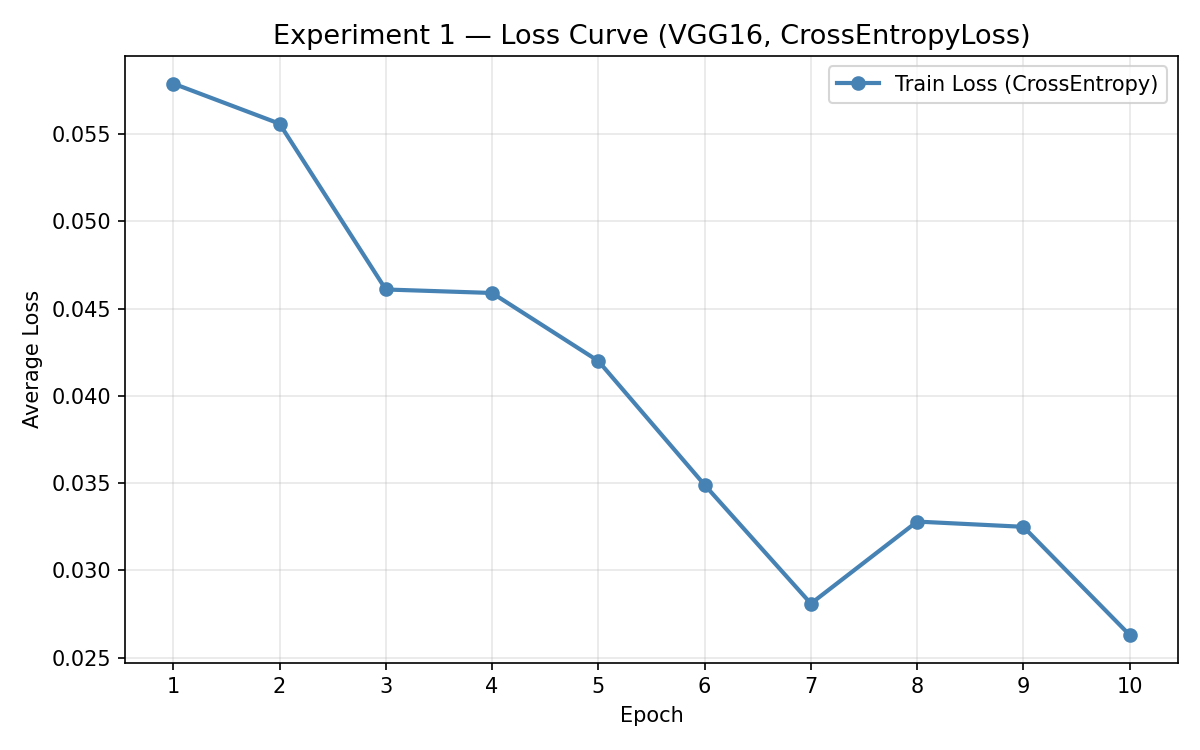
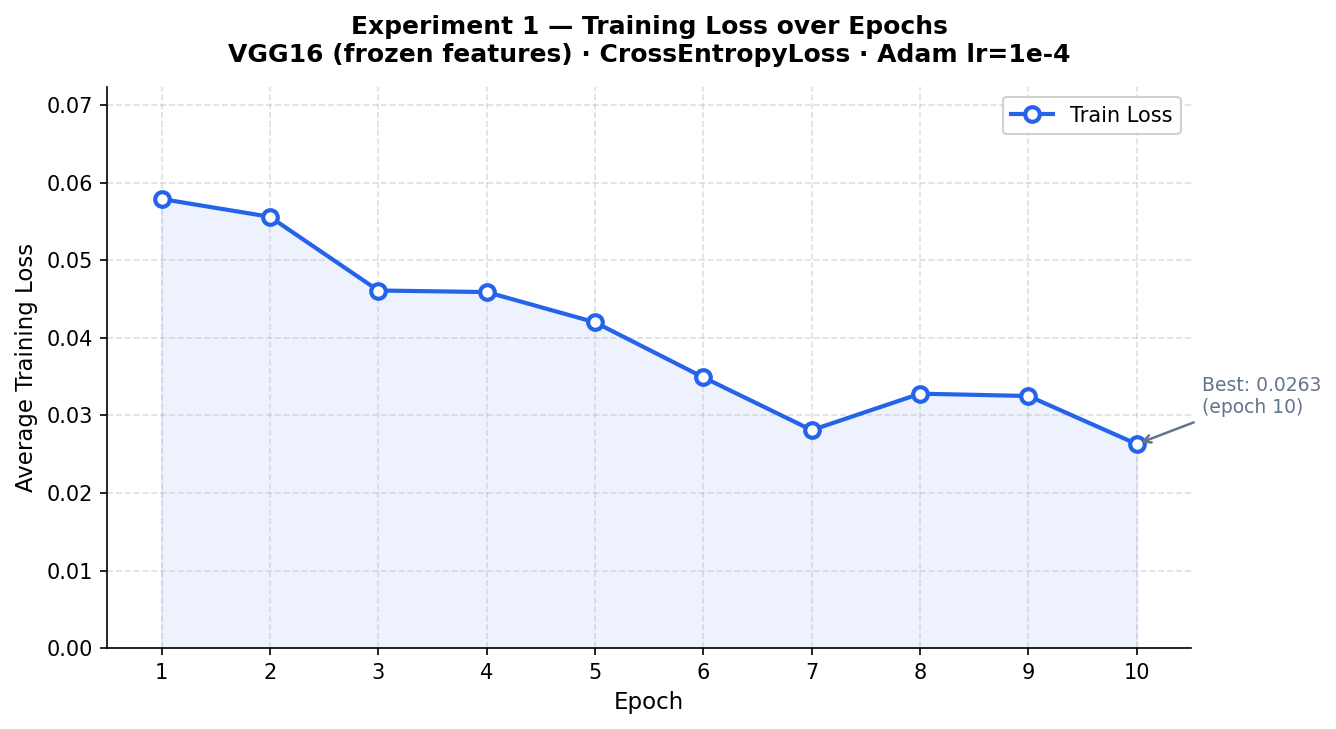
Cleaned model.py, upgraded plot, updated README param table

diff --git a/src/model.py b/src/model.py
@@ -2,8 +2,18 @@ import torch
 import torch.nn as nn
 import torchvision.models as models
 
+
+""" 
+Building a VGG16 based classifier for fruit recognition.
+-Loads VGG16 pretrained
+- Freeze the entire freature extractor(conv layers) 
+- Replace only the final fully_connected layer with a new linear
+
+"""
+
 def build_model(num_classes=15):
     # Load pretrained VGG16
+    # weights=VGG16_Weights.DEFAULT fetches the best available ImageNet weights
     model = models.vgg16(weights=models.VGG16_Weights.DEFAULT)
 
     # Freeze all feature layers
@@ -11,31 +21,30 @@ def build_model(num_classes=15):
         param.requires_grad = False
 
     # Replace final classifier layer
+    # original was 1000 ImageNet classes but we took only 15 
     model.classifier[-1] = nn.Linear(4096, num_classes)
 
     return model
 
+def count_parameters(model):
+    """
+    return a dict with total trainable and frozen param counts.
+    """
+    total = sum(p.numel() for p in model.parameters())
+    trainable = sum(p.numel() for p in model.parameters() if p.requires_grad)
+    frozen = total - trainable
+    return {"total": total,"trainable": trainable, "frozen": frozen}
+
 if __name__ == "__main__":
     model = build_model()
+    counts = count_parameters(model)
 
-    # Count parameters
-    total_params = sum(p.numel() for p in model.parameters())
-    frozen_params = sum(
-        p.numel() for p in model.parameters()
-        if not p.requires_grad
-    )
-    trainable_params = sum(
-        p.numel() for p in model.parameters()
-        if p.requires_grad
-    )
+    print(f"Total params: {counts['total']:,}")
+    print(f"Frozen params: {counts['frozen']:,}")
+    print(f"Trainable params: {counts['trainable']:,}")
 
-    print(f"Total params:     {total_params:,}")
-    print(f"Frozen params:    {frozen_params:,}")
-    print(f"Trainable params: {trainable_params:,}")
-
-    # Test with dummy input
-    dummy = torch.randn(1, 3, 224, 224)
+    #forward pass on a dummy image
+    dummy = torch.randn(1,3,224,224)
     output = model(dummy)
-    print(f"Output shape: {output.shape}")
-    assert output.shape == (1, 15), "Shape mismatch!"
-    print("All checks passed.")
+    assert output.shape == (1,15), f"Expected (1,15), got {output.shape}"
+    print(f"Output shape:  {output.shape}")

diff --git a/src/plot_loss.py b/src/plot_loss.py
@@ -1,0 +1,60 @@
+import matplotlib.pyplot as plt
+import matplotlib.ticker as ticker
+import numpy as np
+import os
+
+exp1_train_losses = [0.0579,0.0556, 0.0461,0.0459,0.0420,0.0349,0.0281,0.0328,0.0325,0.0263]
+
+if not exp1_train_losses:
+    print("No losses yte paste your exp1_train_losses list at the top of this file")
+    exit()
+
+epochs = list(range(1, len(exp1_train_losses) + 1))
+best_epoch = int(np.argmin(exp1_train_losses)) +1
+best_loss = min(exp1_train_losses)
+
+#plot
+fig, ax = plt.subplots(figsize =(9,5))
+
+ax.plot(
+    epochs, exp1_train_losses,
+    marker="o", linewidth=2, color="#2563EB",
+    markerfacecolor="white", markeredgewidth=2, markersize=7,
+    label="Train Loss" 
+)
+
+#shaded area under curve
+ax.fill_between(epochs, exp1_train_losses, alpha=0.08, color="#2563EB")
+ 
+# Annotate best (lowest) loss point
+ax.annotate(
+    f"Best: {best_loss:.4f}\n(epoch {best_epoch})",
+    xy=(best_epoch, best_loss),
+    xytext=(best_epoch + 0.6, best_loss + 0.004),
+    arrowprops=dict(arrowstyle="->", color="#64748B", lw=1.2),
+    fontsize=9, color="#64748B"
+)
+
+# lables and styling
+ax.set_title(
+    "Experiment 1 — Training Loss over Epochs\n"
+    "VGG16 (frozen features) · CrossEntropyLoss · Adam lr=1e-4",
+    fontsize=12, fontweight="bold", pad=12
+)
+ax.set_xlabel("Epoch", fontsize=11)
+ax.set_ylabel("Average Training Loss", fontsize=11)
+ax.xaxis.set_major_locator(ticker.MultipleLocator(1))
+ax.set_xlim(0.5, len(epochs) + 0.5)
+ax.set_ylim(0, max(exp1_train_losses) * 1.25)
+ax.grid(True, linestyle="--", alpha=0.4)
+ax.legend(fontsize=10, framealpha=0.9)
+ax.spines["top"].set_visible(False)
+ax.spines["right"].set_visible(False)
+ 
+plt.tight_layout()
+
+#save
+os.makedirs("results/graphs", exist_ok=True)
+out = "results/graphs/exp1_loss_curve.png"
+plt.savefig(out, dpi=150, bbox_inches="tight")
+print(f"Saved → {out}")

diff --git a/README.md b/README.md
@@ -25,7 +25,7 @@ Input (224×224×3)
 │  Block 5:  Conv(512) → Conv(512) →     │
 │            Conv(512) → Pool            │
 └───────────────────┬────────────────────┘
-                    │  7×7×512 → flatten
+                    │  7×7×512 → flatten → 25088
 ┌───────────────────▼────────────────────┐
 │  CLASSIFIER  (trainable)               │
 │                                        │
@@ -45,7 +45,7 @@ This works because early conv layers learn universal features (edges, textures, 
 
 ### Parameter Table
 
-| Component     | Parameters      | Trainable  |
+| Layer         | Parameters      | Trainable  |
 |---------------|-----------------|------------|
 | features      | 14,714,688      | frozen     |
 | classifier[0] | 102,764,544     | yes        |
@@ -53,9 +53,15 @@ This works because early conv layers learn universal features (edges, textures, 
 | classifier[6] | 61,455          | yes (new)  |
 | **Total**     | **134,321,999** | —          |
 | **Trainable** | **119,607,311** | yes        |
+| **Frozen**    | **14,714,688**  | No         |
 
-`classifier[6]` is the replaced head: `nn.Linear(4096, 15)` — the only layer that did not exist in the original VGG16.
+`classifier[6]` is the replaced head: `nn.Linear(4096, 15)`. It is the only layer that did not exist in the original VGG16.
 
+Verify at any time:
+```bash
+python -m src.model
+```
+ 
 ### Input Preprocessing
 
 All images are resized to 224×224 and normalised using ImageNet statistics:
@@ -79,26 +85,44 @@ Training augmentations: random horizontal flip, colour jitter (brightness, contr
 
 ## Experiments
 
-| Exp | Loss Function        | Epochs | Best Val Acc |
-|-----|----------------------|--------|--------------|
-| 1   | CrossEntropyLoss     | 10     | TBD          |
-| 2   | FocalLoss (a=1, g=2) | 10     | TBD          |
+| Exp | Loss Function        | Epochs | Optimizer     | Best Val Acc |
+|-----|----------------------|--------|---------------|--------------|
+| 1   | CrossEntropyLoss     | 10     | Adam lr=1e-4  | TBD          |
+| 2   | FocalLoss (α=1, γ=2) | 10     | Adam lr=1e-4  | TBD          |
+ 
+Both experiments use StepLR scheduler (step_size=5, gamma=0.1) and early stopping (patience=3).
+ 
+### Exp 1 — Training Loss Curve
+ 
+![Exp 1 Loss Curve](results/graphs/exp1_loss_curve.png)
+ 
+---
 
+## Training
+ 
+```bash
+# Full training run (Exp 1 + Exp 2)
+python -m src.train
+ 
+# Experiment 2 only
+python src/Experiment2.py
+```
 ---
 
 ## Project Structure
 
 ```
 src/
-  model.py       # VGG16 definition, build_model()
+  model.py       # VGG16 definition, build_model(), count_parameters()
   dataset.py     # ImageFolder loaders for train/val/test
   train.py       # train_one_epoch(), Experiment 1
   Validate.py    # validate() — val loss + accuracy
   loss.py        # FocalLoss implementation
+  plot_loss.py     # plot exp1 loss curve
+  Experiment2.py  # Experiment 2 (FocalLoss), confusion matrix, plots
 results/
   checkpoints/   # saved .pth files
   graphs/        # loss curve plots
-plot_loss.py     # plot exp1 loss curve
 README.md
 ```
 
@@ -110,22 +134,13 @@ README.md
 pip install torch torchvision matplotlib
 ```
 
-Place the dataset inside `data/` with this structure:
+Dataset inside `data/` with this structure:
 ```
 data/
   train/   # 15 subfolders, one per class
   val/     # 20% split from train
   test/    # Kaggle Test folder
 ```
-
-Run training:
-```bash
-python -m src.train
-```
-
-
-
-
 
 ## Results
 
